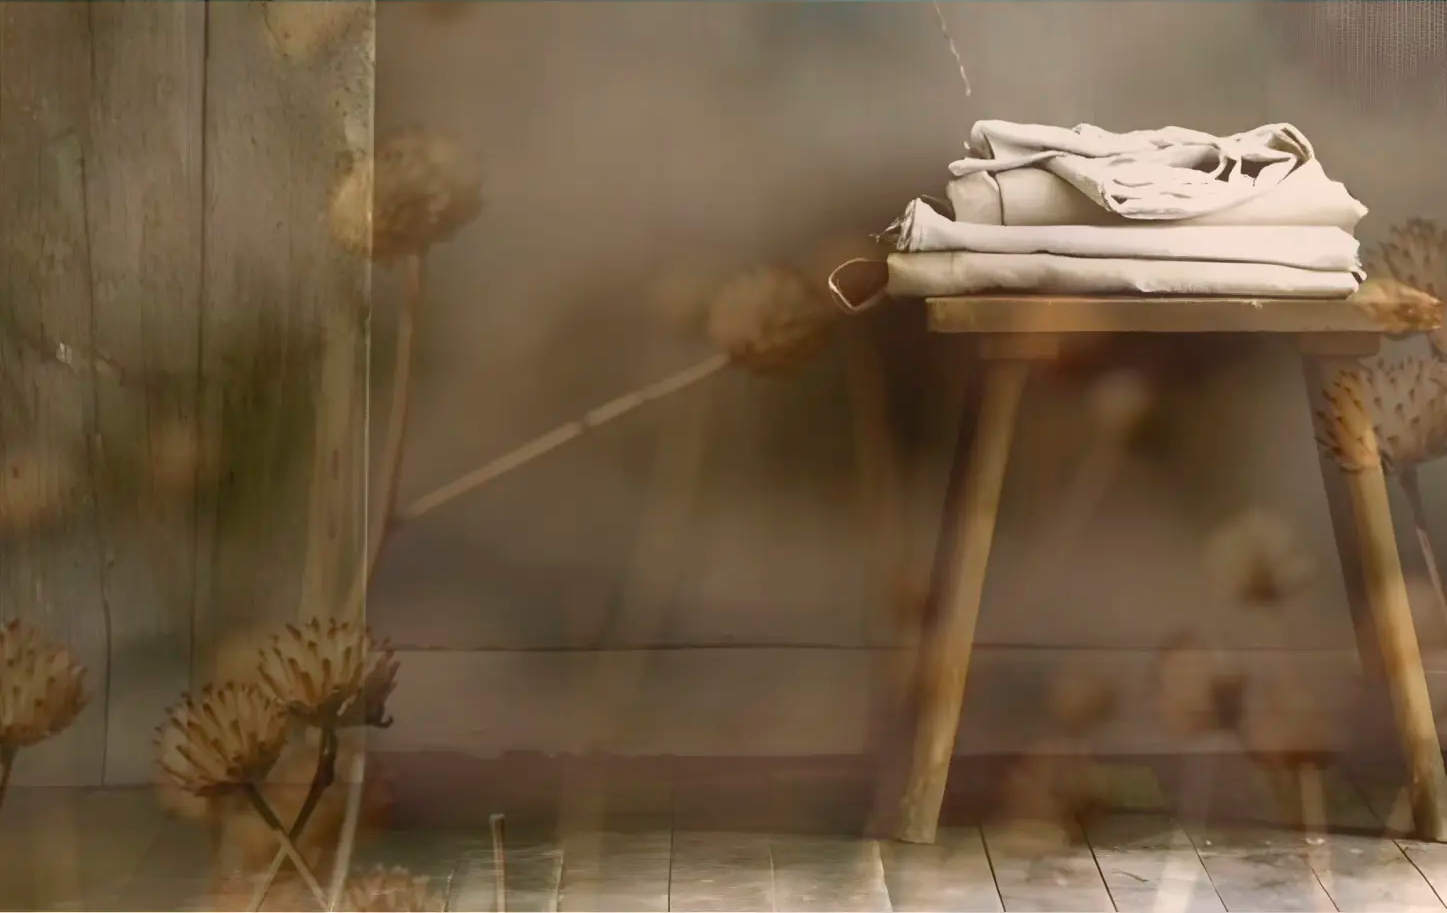
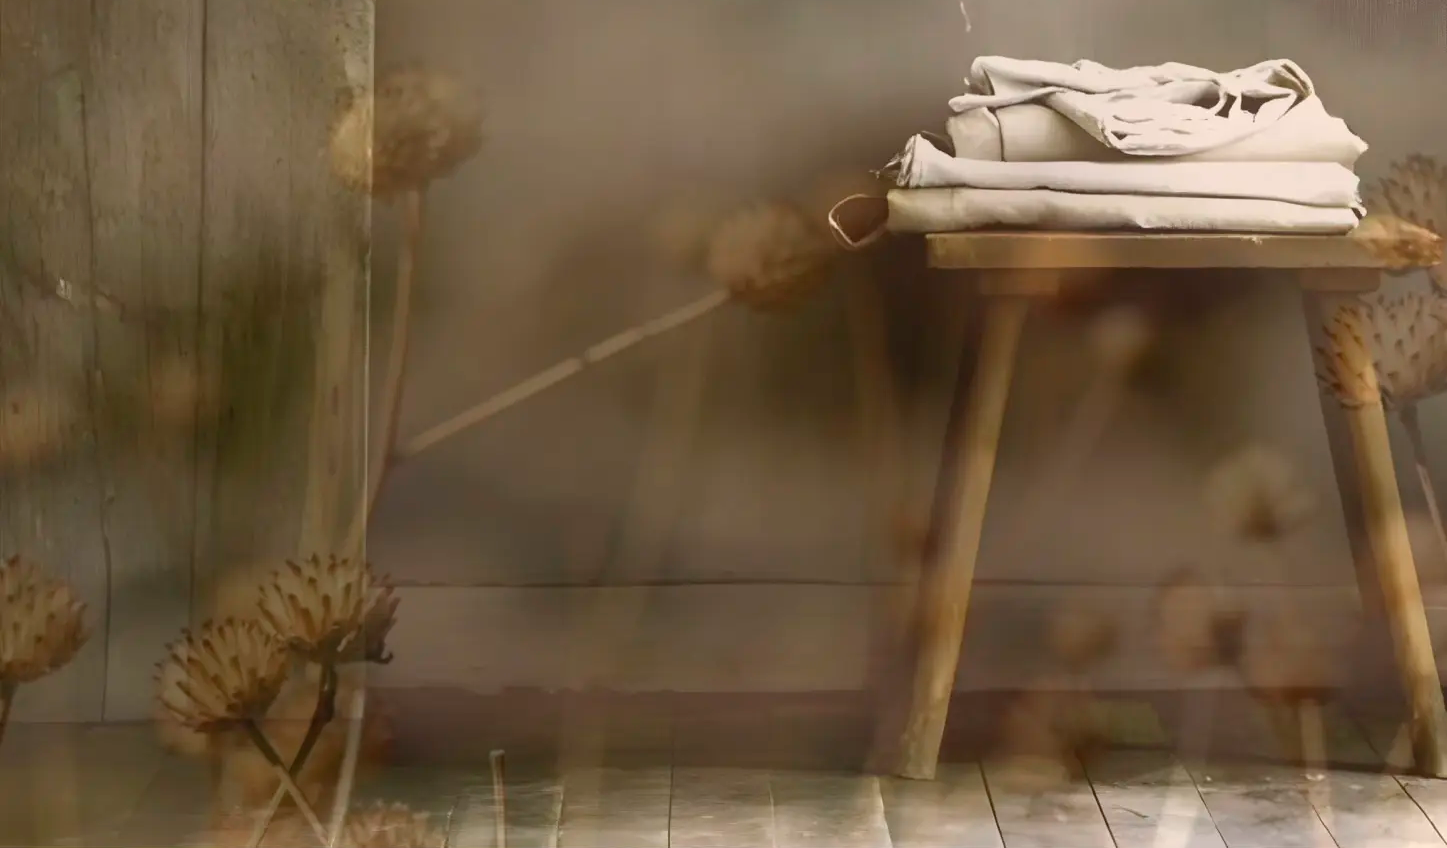
Updates

diff --git a/src/pages/index.js b/src/pages/index.js
@@ -11,27 +11,27 @@ export default function Home() {
   return (
     <>
       <div className="antialiased bg-black">
-        <div className="mx-auto text-white bg-black text-opacity-90 max-w-7xl">
+        <div className="mx-auto text-white bg-black text-opacity-90 max-w-[1447px]">
           <div
             className="px-4 py-10 text-center bg-no-repeat bg-cover"
             style={{
               backgroundImage: "url(/images/new_landing/hero_compressed.webp)",
             }}
           >
-            <h1 className="mt-32 text-6xl tracking-widest md:mt-40 md:text-9xl leading-1">
+            <h1 className="mt-32 text-6xl tracking-widest md:mt-32 md:text-9xl leading-1">
               MOSS
             </h1>
             <p className="pb-10 text-xl font-light md:-mt-2">
               co-working + events
             </p>
-            <h1 className="text-2xl tracking-widest mb-44 md:mb-64 md:text-3xl">
+            <h1 className="text-2xl tracking-widest mb-44 md:mb-64 md:pb-24 md:text-3xl">
               in the heart of venice
             </h1>
 
             <div className="grid md:grid-cols-2">
-              <div className="hidden space-y-20 text-left lg:block">
+              <div className="hidden space-y-24 text-left lg:block">
                 <div>
-                  <h1 className="text-4xl font-semibold">OUR SPACE</h1>
+                  <h1 className="text-4xl ">OUR SPACE</h1>
                 </div>
                 <div>
                   <p className="text-3xl">Bio-architecture</p>
@@ -50,18 +50,16 @@ export default function Home() {
                   <p className="text-xl font-light">clarity of mind + peace</p>
                 </div>
               </div>
-              <div className="flex items-end justify-end">
-                <div className="text-left">
-                  <h1 className="text-2xl font-semibold md:text-4xl">
-                    YOU ARE INVITED ⋆
-                  </h1>
+              <div className="flex justify-end">
+                <div className="max-w-2xl text-left md:mt-5">
+                  <h1 className="text-2xl md:text-4xl">YOU ARE INVITED ⋆</h1>
                   <div>
                     <h1 className="mt-3 text-xl md:text-4xl drop-shadow-title">
                       co-working by day | event space by night
                     </h1>
                   </div>
                   <div>
-                    <p className="mt-10 text-xl font-light leading-normal md:mt-16 md:text-3xl">
+                    <p className="mt-10 text-xl font-light leading-normal md:mb-24 md:mt-16 md:text-3xl">
                       MOSS is a place for leaders, technologists, creators,
                       artists, writers, and healers to explore, create, and grow
                       together.
@@ -71,7 +69,7 @@ export default function Home() {
               </div>
             </div>
 
-            <div className="flex justify-center mt-10">
+            <div className="flex justify-center mt-10 md:mt-[-3.6rem]">
               <a
                 href="https://buy.stripe.com/test_7sIeW8g7t6VP17afYY"
                 className="bg-beige-500 hover:bg-beige-700 text-white py-5 px-8 rounded-3.5xl tracking-tight"
@@ -117,18 +115,18 @@ export default function Home() {
           </div>
 
           <div
-            className="px-4 py-20 bg-top bg-cover lg:px-0"
+            className="px-4 py-20 bg-white bg-center bg-cover bg-opacity-80 lg:py-32 lg:px-0 relative z-[2] shadow-md"
             style={{
-              backgroundImage: "url(/images/section-3.png",
+              backgroundImage: "url(/images/Dandelion.png",
             }}
           >
-            <div className="block max-w-5xl mx-auto lg:px-5 lg:py-10 lg:bg-brown bg-opacity-70">
+            <div className="block max-w-5xl mx-auto lg:px-10 lg:py-16 lg:bg-brown lg:bg-opacity-70">
               <div className="grid gap-10 md:grid-cols-2 md:gap-0">
-                <div className="p-8 text-center lg:text-left lg:bg-transparent bg-brown bg-opacity-70 lg:p-0">
+                <div className="p-8 text-center lg:text-left lg:bg-transparent bg-brown bg-opacity-70 lg:bg-opacity-0 lg:p-0">
                   <h2 className="text-2xl leading-normal md:text-4xl drop-shadow-title">
                     MOSS WELLNESS OPTIONS
                   </h2>
-                  <ul className="text-xl leading-normal list-none md:text-2xl drop-shadow-title">
+                  <ul className="text-xl leading-normal list-none md:text-3xl drop-shadow-title">
                     <li>cozy lofts</li>
                     <li>bicycle storage</li>
                     <li>tea + coffee bar</li>
@@ -140,7 +138,7 @@ export default function Home() {
                   <h2 className="text-2xl leading-normal md:text-4xl drop-shadow-title">
                     MOSS OFFERINGS
                   </h2>
-                  <ul className="text-xl leading-normal list-none md:text-2xl drop-shadow-title">
+                  <ul className="text-xl leading-normal list-none md:text-3xl drop-shadow-title">
                     <li>nap pod room</li>
                     <li>no-tech tea time</li>
                     <li>red light therapy</li>
@@ -152,7 +150,7 @@ export default function Home() {
             </div>
           </div>
 
-          <div className="px-4 py-16 text-xl text-center md:p-12 md:text-2xl text-offwhite bg-green">
+          <div className="px-4 py-16 text-xl text-center md:p-12 md:text-2xl text-offwhite bg-green ">
             <p>
               Without value-aligned spaces to regularly gather, individuals are
               left to create community by themselves.
@@ -163,7 +161,7 @@ export default function Home() {
             </p>
           </div>
           <div
-            className="relative flex flex-wrap pb-40 text-white bg-tan font-size-0"
+            className="relative flex flex-wrap pb-40 text-white md:pb-60 bg-tan font-size-0"
             style={{
               backgroundImage:
                 "url(/images/new_landing/member_background.webp)",
@@ -210,7 +208,7 @@ export default function Home() {
                   </div>
                   <Tab.Panels className="mt-6 text-2xl text-white md:text-3xl category-content ">
                     <Tab.Panel>
-                      <ul className="pl-0 list-disc list-inside category-list connect active">
+                      <ul className="pl-0 space-y-5 list-disc list-inside category-list connect active">
                         <li>live music jams</li>
                         <li>community dinners</li>
                         <li>art shows + gallery</li>
@@ -218,7 +216,7 @@ export default function Home() {
                       </ul>
                     </Tab.Panel>
                     <Tab.Panel>
-                      <ul className="pl-0 list-disc list-inside category-list learn">
+                      <ul className="pl-0 space-y-5 list-disc list-inside category-list learn">
                         <li>creator jams</li>
                         <li>group focus flow</li>
                         <li>bookclubs + discussion</li>
@@ -226,7 +224,7 @@ export default function Home() {
                       </ul>
                     </Tab.Panel>
                     <Tab.Panel>
-                      <ul className="pl-0 list-disc list-inside category-list grow">
+                      <ul className="pl-0 space-y-5 list-disc list-inside category-list grow">
                         <li>art + drawing</li>
                         <li>group journaling</li>
                         <li>creative writing club</li>
@@ -234,7 +232,7 @@ export default function Home() {
                       </ul>
                     </Tab.Panel>
                     <Tab.Panel>
-                      <ul className="pl-0 list-disc list-inside category-list embody">
+                      <ul className="pl-0 space-y-5 list-disc list-inside category-list embody">
                         <li>dance classes</li>
                         <li>group hikes + travel</li>
                         <li>sauna + ice bath cycles</li>
@@ -274,21 +272,23 @@ export default function Home() {
                       src="/images/new_landing/map.png"
                     />
                   </div>
-                  <ul className="pt-2 pl-5 text-xl leading-relaxed list-disc md:text-2xl">
-                    <li>$3500</li>
-                    <li>2 months free</li>
-                    <li>private rooms</li>
-                    <li>full wellness access</li>
-                    <li>1 year of membership</li>
-                    <li>MOSS opening launch</li>
-                    <li>unlimited event access</li>
-                    <li>10 day access per month</li>
-                    <li>unlimited +1 guest passes</li>
-                  </ul>
+                  <div className="flex justify-end">
+                    <ul className="pt-2 pl-5 space-y-1 text-xl leading-relaxed list-disc md:text-3xl">
+                      <li>$3500</li>
+                      <li>2 months free</li>
+                      <li>private rooms</li>
+                      <li>full wellness access</li>
+                      <li>1 year of membership</li>
+                      <li>MOSS opening launch</li>
+                      <li>unlimited event access</li>
+                      <li>10 day access per month</li>
+                      <li>unlimited +1 guest passes</li>
+                    </ul>
+                  </div>
                 </div>
               </div>
 
-              <div className="flex-grow w-full mt-10">
+              <div className="flex-grow w-full mt-10 md:mt-72 md:pt-5">
                 <div className="flex flex-row justify-center w-full">
                   <button className="px-16 py-5 mt-6 text-base text-white bg-brown-500 rounded-3xl drop-shadow-title">
                     <a href="https://buy.stripe.com/test_7sIeW8g7t6VP17afYY">
@@ -298,7 +298,7 @@ export default function Home() {
                     </a>
                   </button>
                 </div>
-                <div className="container px-4 mx-auto mt-16 text-lg md:px-20">
+                <div className="container px-4 mx-auto mt-16 text-lg md:px-20 pb-[38%]">
                   <h1 className="mb-4 text-4xl font-semibold drop-shadow-title">
                     FAQ
                   </h1>
@@ -307,7 +307,7 @@ export default function Home() {
                       {({ open }) => (
                         <>
                           <Disclosure.Button className={"w-full"}>
-                            <div className="flex justify-between text-xl md:text-2xl accordion-title">
+                            <div className="flex justify-between text-xl md:text-3xl accordion-title">
                               <h3>Can I host an event at MOSS?</h3>
                               <span className="icon">
                                 <svg
@@ -344,7 +344,7 @@ export default function Home() {
                       {({ open }) => (
                         <>
                           <Disclosure.Button className={"w-full"}>
-                            <div className="flex justify-between text-xl md:text-2xl accordion-title">
+                            <div className="flex justify-between text-xl md:text-3xl accordion-title">
                               <h3>What are your hours of operation?</h3>
                               <span className="icon">
                                 <svg
@@ -380,7 +380,7 @@ export default function Home() {
                       {({ open }) => (
                         <>
                           <Disclosure.Button className={"w-full"}>
-                            <div className="flex justify-between text-xl md:text-2xl accordion-title">
+                            <div className="flex justify-between text-xl md:text-3xl accordion-title">
                               <h3>Can anyone join MOSS?</h3>
                               <span className="icon">
                                 <svg

diff --git a/src/styles/globals.css b/src/styles/globals.css
@@ -62,6 +62,8 @@
   border-top: 2px solid transparent;
   padding-top: 12px;
   transition: border-color 0.2s ease-in-out;
+  outline: none !important;
+  box-shadow: none !important;
 }
 
 .category-button:hover,
